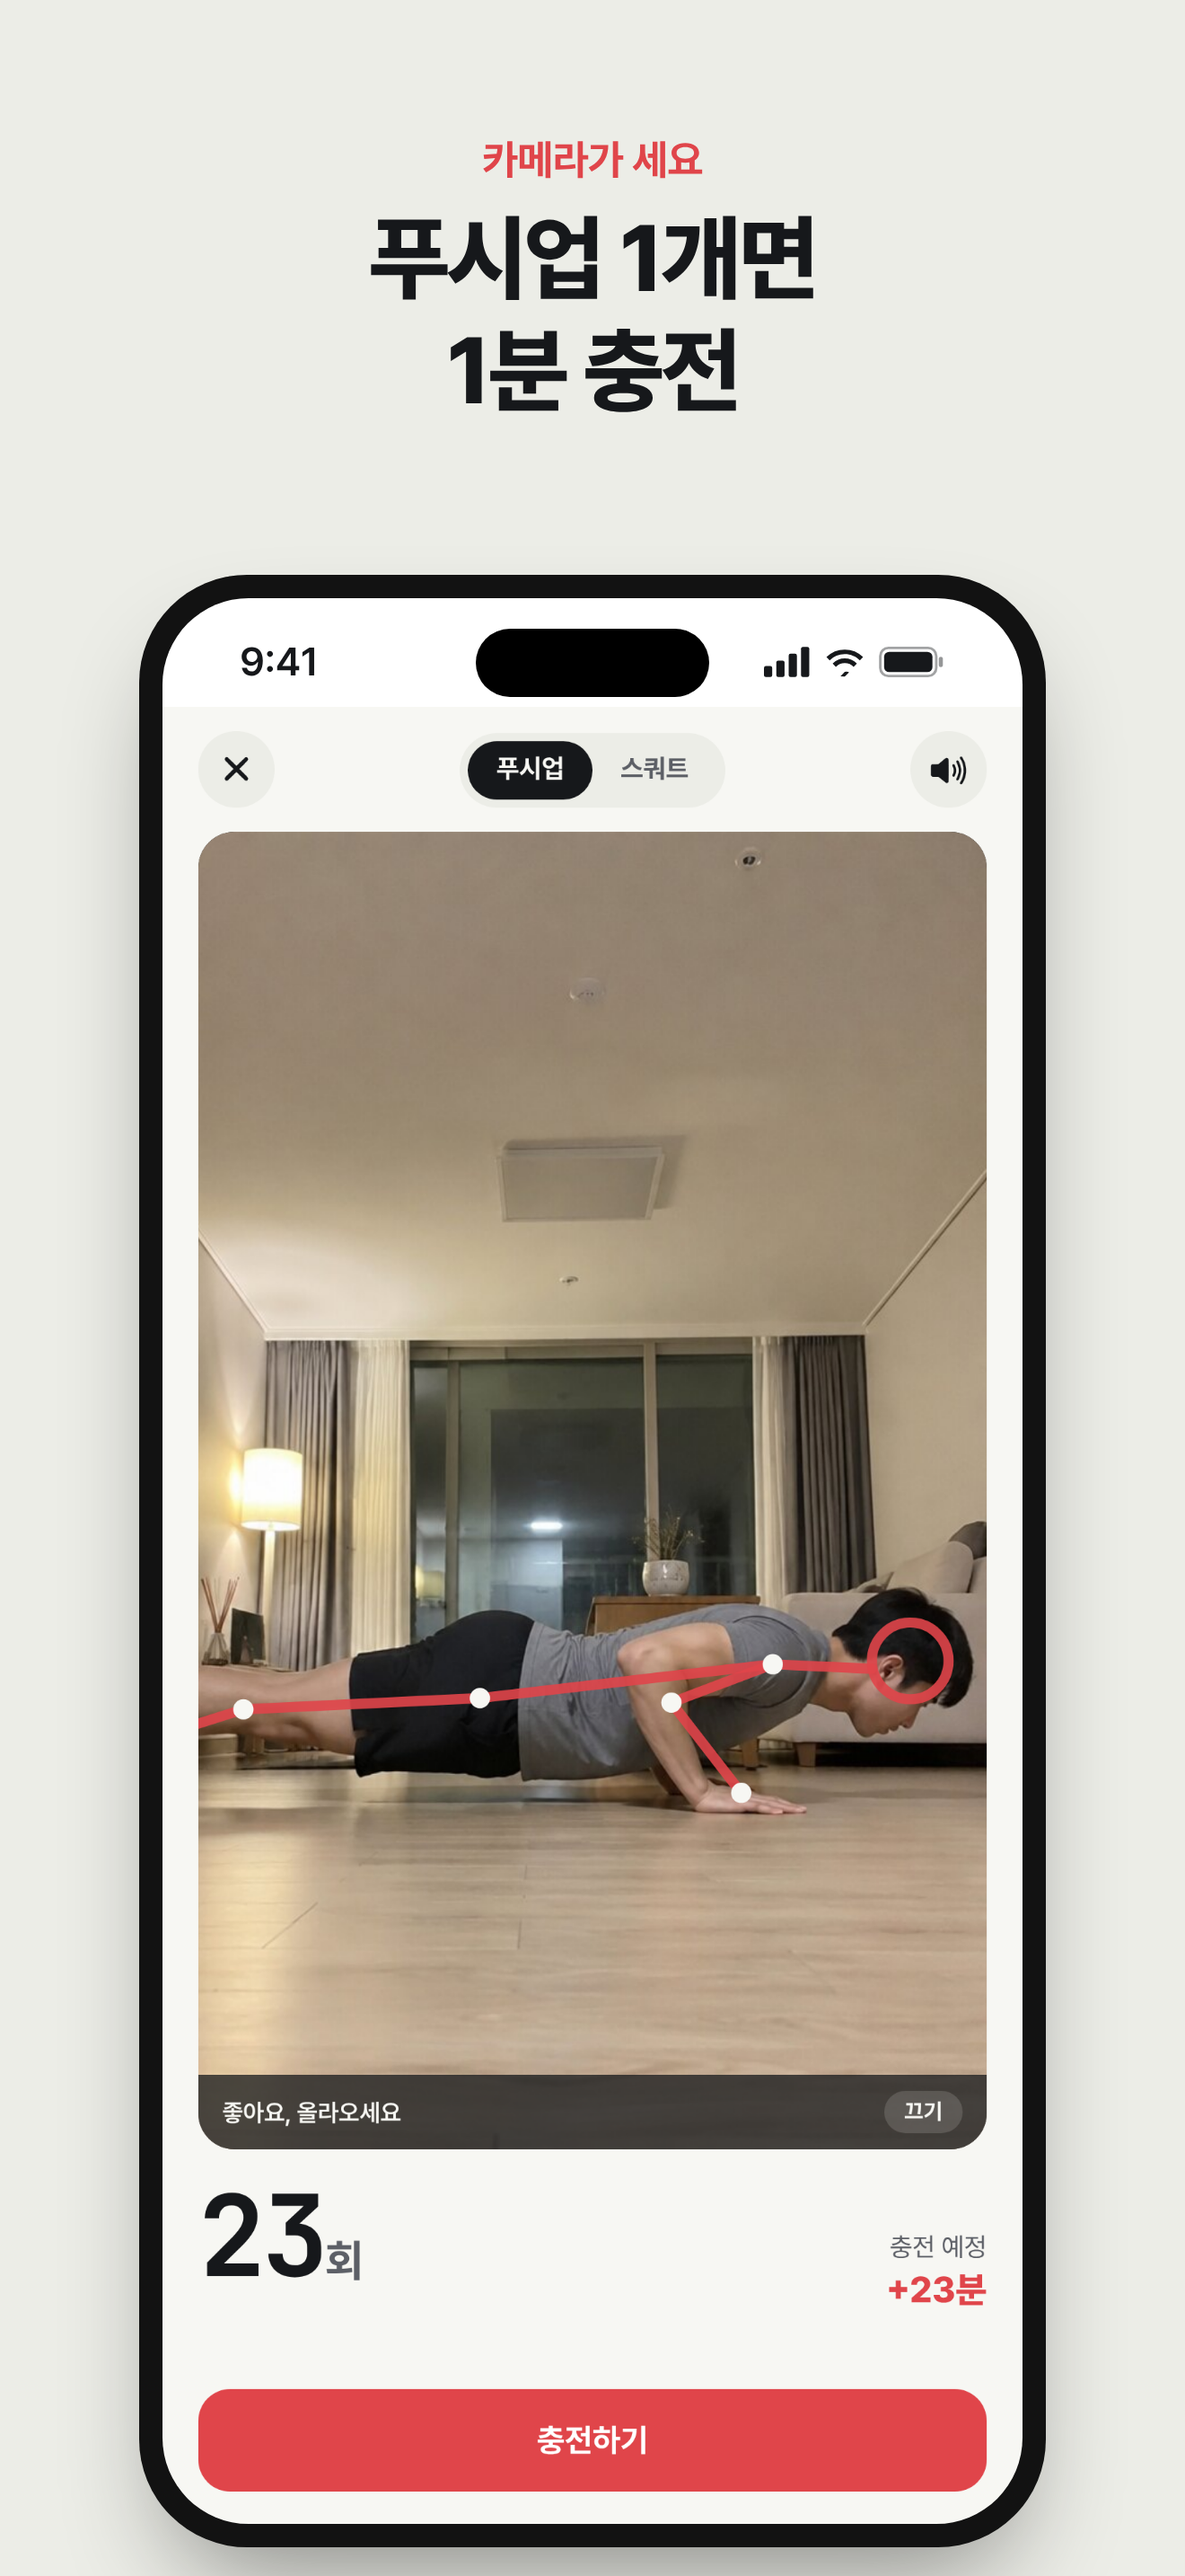
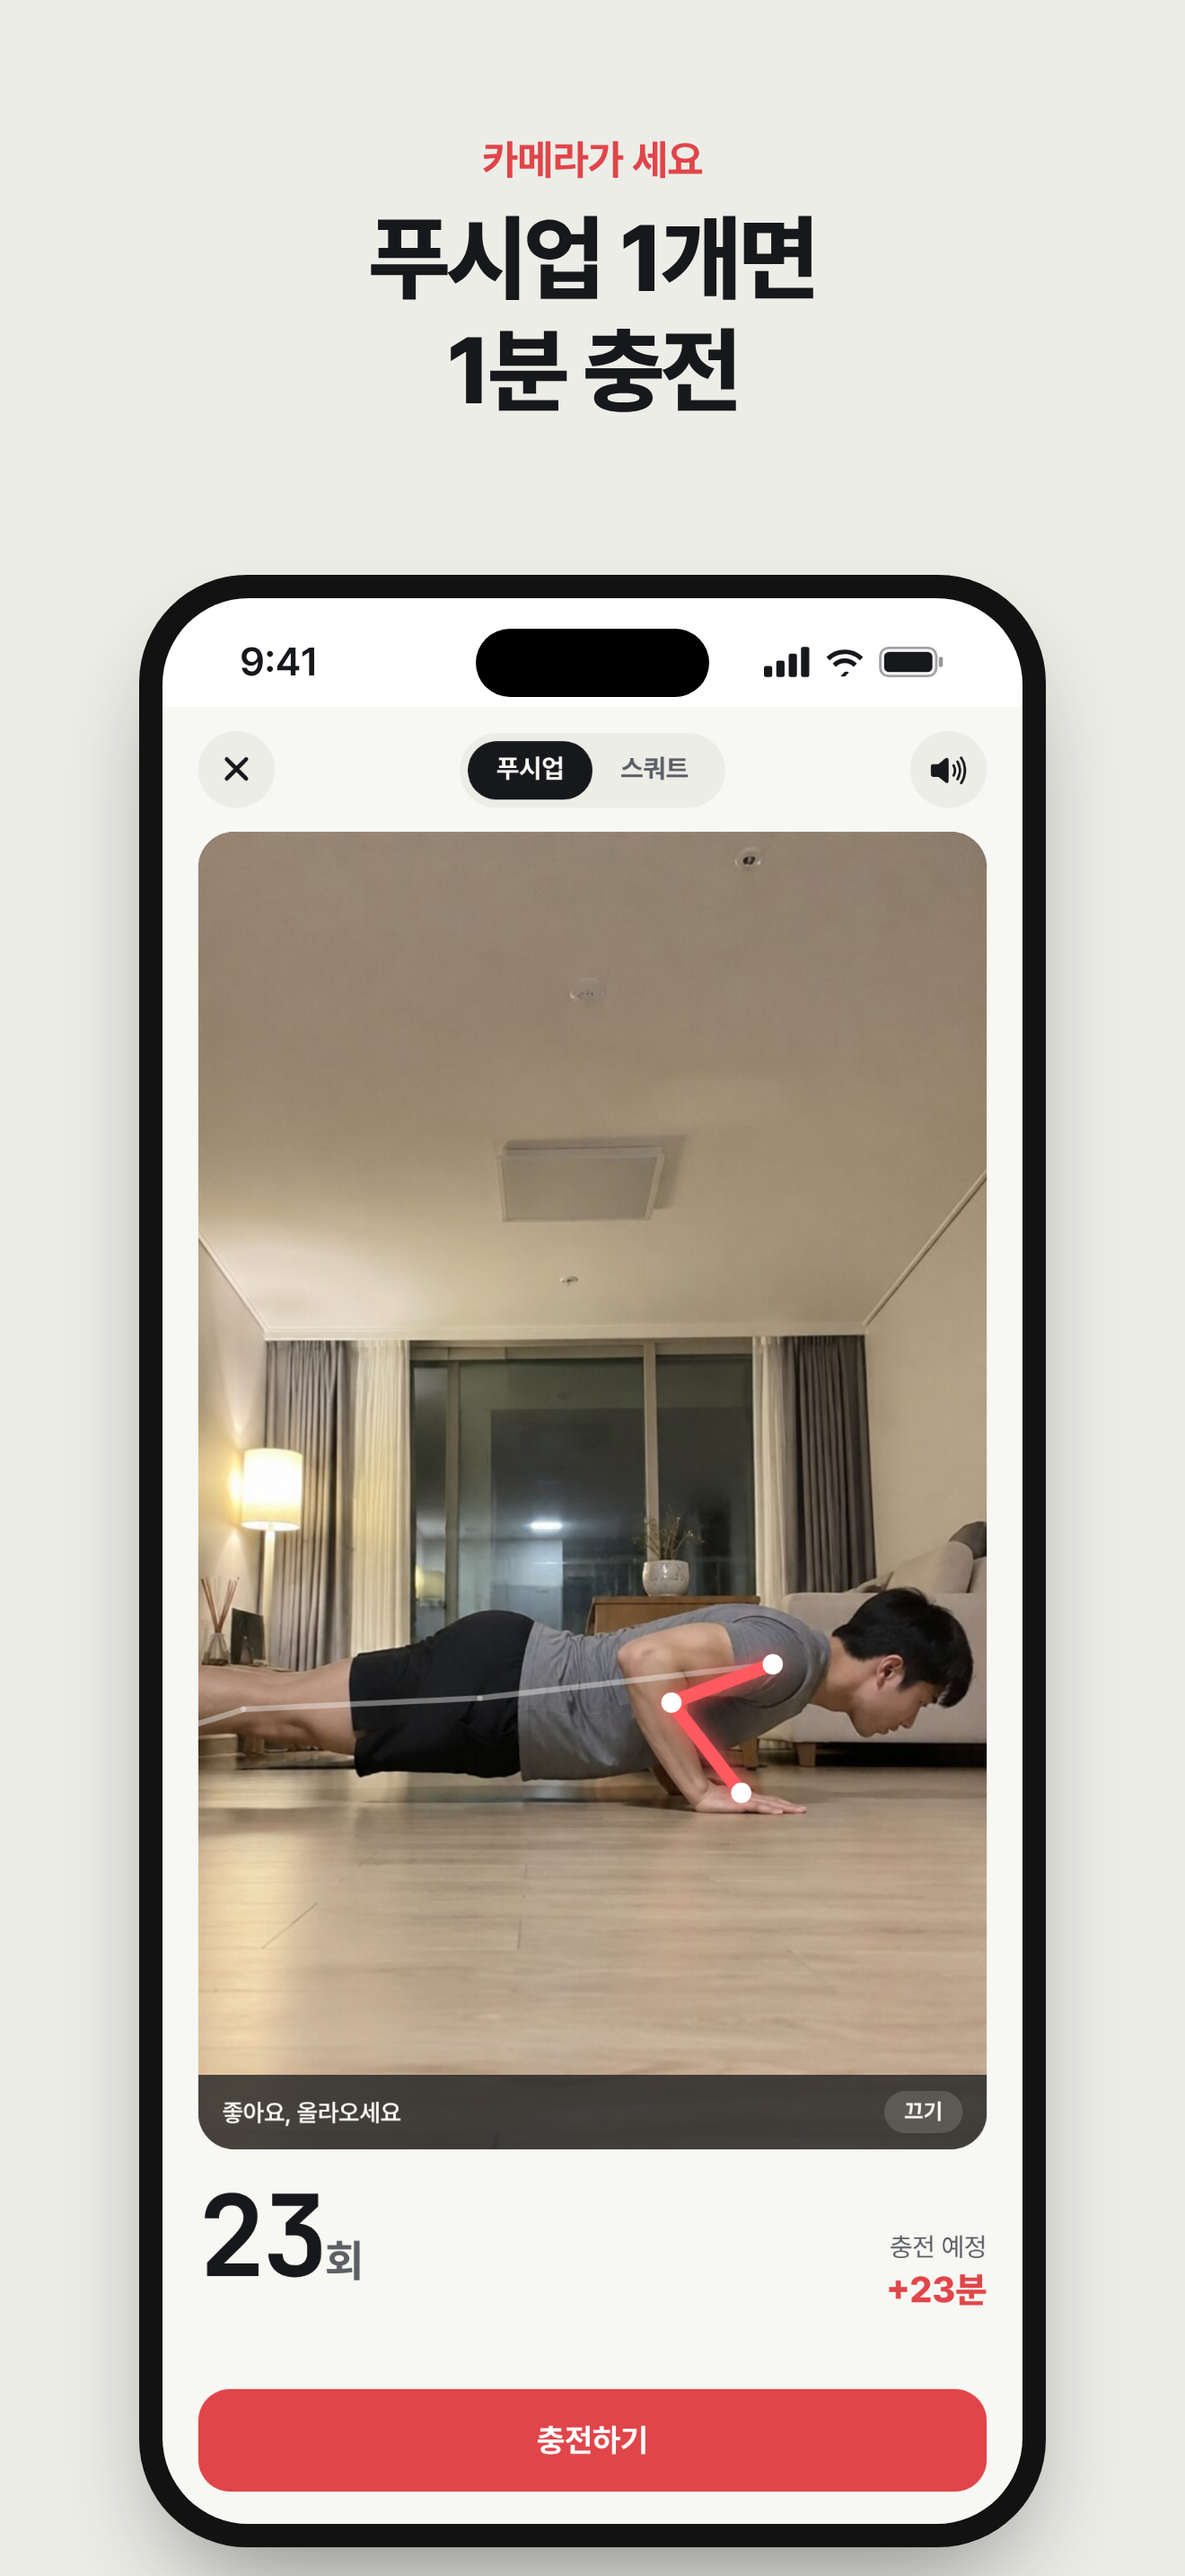
Pose overlay: faint body lines, working limb glows red (arm for push-ups, leg for squats) and flashes on each rep; no stick-figure head
Claude-Session: https://claude.ai/code/session_018S5NCPiZARRimv7hDayTi9

Changed region(s): [[0.5591, 0.6206, 0.8076, 0.7137], [0.1864, 0.6517, 0.528, 0.6827]]

diff --git a/mobile/src/features/pose/PoseCamera.web.tsx b/mobile/src/features/pose/PoseCamera.web.tsx
@@ -12,10 +12,6 @@ const WASM_BASE = `https://cdn.jsdelivr.net/npm/@mediapipe/tasks-vision@${MP_VER
 const MODEL_URL =
   'https://storage.googleapis.com/mediapipe-models/pose_landmarker/pose_landmarker_lite/float16/1/pose_landmarker_lite.task';
 
-const LINKS: [number, number][] = [
-  [11, 12], [11, 13], [13, 15], [12, 14], [14, 16], [11, 23], [12, 24],
-  [23, 24], [23, 25], [25, 27], [24, 26], [26, 28],
-];
 
 type Status = CameraStatus;
 
@@ -34,6 +30,8 @@ export default function PoseCamera({ exercise, onRep, autoStart = false, onStatu
   const stopRef = useRef<(() => void) | null>(null);
   const counterRef = useRef(new RepCounter(exercise));
   const onRepRef = useRef(onRep);
+  const exerciseRef = useRef(exercise);
+  exerciseRef.current = exercise;
   const [status, setStatus] = useState<Status>('idle');
   const [hint, setHint] = useState('');
   const [angle, setAngle] = useState<number | null>(null);
@@ -83,6 +81,7 @@ export default function PoseCamera({ exercise, onRep, autoStart = false, onStatu
       let lastVideoTime = -1;
       let lastUi = 0;
       let lastDetect = 0;
+      let flashUntil = 0;
 
       const loop = () => {
         raf = requestAnimationFrame(loop);
@@ -92,9 +91,12 @@ export default function PoseCamera({ exercise, onRep, autoStart = false, onStatu
         lastDetect = now;
         lastVideoTime = video.currentTime;
         const lm = landmarker.detectForVideo(video, now).landmarks[0];
-        if (ctx) draw(ctx, canvas, video, lm);
         const u = counterRef.current.update(lm, now);
-        if (u.repCompleted) onRepRef.current();
+        if (u.repCompleted) {
+          onRepRef.current();
+          flashUntil = now + 260;
+        }
+        if (ctx) draw(ctx, canvas, video, lm, exerciseRef.current, now < flashUntil);
         if (now - lastUi > 150) {
           lastUi = now;
           setAngle(u.angle === null ? null : Math.round(u.angle));
@@ -165,33 +167,62 @@ export default function PoseCamera({ exercise, onRep, autoStart = false, onStatu
   );
 }
 
-/** Minimal stick figure: just enough to see that a person is detected. */
-function draw(ctx: CanvasRenderingContext2D, canvas: HTMLCanvasElement, video: HTMLVideoElement, lm?: Landmark[]) {
+const BODY: [number, number][] = [
+  [11, 12], [11, 23], [12, 24], [23, 24], [23, 25], [25, 27], [24, 26], [26, 28], [11, 13], [13, 15], [12, 14], [14, 16],
+];
+const LIMB = { pushup: { left: [11, 13, 15], right: [12, 14, 16] }, squat: { left: [23, 25, 27], right: [24, 26, 28] } };
+
+/** Body in faint white, the working limb in glowing red; brighter for a moment after a rep. */
+function draw(
+  ctx: CanvasRenderingContext2D,
+  canvas: HTMLCanvasElement,
+  video: HTMLVideoElement,
+  lm: Landmark[] | undefined,
+  exercise: 'pushup' | 'squat',
+  flash: boolean,
+) {
   if (canvas.width !== video.videoWidth) canvas.width = video.videoWidth;
   if (canvas.height !== video.videoHeight) canvas.height = video.videoHeight;
   ctx.clearRect(0, 0, canvas.width, canvas.height);
   if (!lm) return;
   const W = canvas.width;
   const H = canvas.height;
-  const ok = (i: number) => (lm[i]?.visibility ?? 0) >= 0.4;
+  const u = Math.max(W, H) / 640;
+  const vis = (i: number) => lm[i]?.visibility ?? 0;
+  const ok = (i: number) => vis(i) >= 0.4;
   const P = (i: number): [number, number] => [lm[i].x * W, lm[i].y * H];
-  const line = (p: [number, number], q: [number, number]) => {
-    ctx.beginPath();
-    ctx.moveTo(p[0], p[1]);
-    ctx.lineTo(q[0], q[1]);
-    ctx.stroke();
-  };
-  ctx.lineWidth = 4;
+  const score = (ids: number[]) => ids.reduce((n, i) => n + vis(i), 0);
+  const sides = LIMB[exercise];
+  const limb = score(sides.left) >= score(sides.right) ? sides.left : sides.right;
   ctx.lineCap = 'round';
   ctx.lineJoin = 'round';
-  ctx.strokeStyle = 'rgba(224,69,74,0.9)';
-  for (const [a, b] of LINKS) if (ok(a) && ok(b)) line(P(a), P(b));
-  if (ok(0) && ok(11) && ok(12)) {
-    const r = Math.hypot((lm[11].x - lm[12].x) * W, (lm[11].y - lm[12].y) * H) * 0.3;
+  ctx.shadowBlur = 0;
+  ctx.strokeStyle = 'rgba(255,255,255,0.35)';
+  ctx.lineWidth = 3 * u;
+  for (const [a, b] of BODY) {
+    if ((limb.includes(a) && limb.includes(b)) || !ok(a) || !ok(b)) continue;
     ctx.beginPath();
-    ctx.arc(lm[0].x * W, lm[0].y * H, Math.max(10, r), 0, Math.PI * 2);
+    ctx.moveTo(...P(a));
+    ctx.lineTo(...P(b));
     ctx.stroke();
-    line([((lm[11].x + lm[12].x) / 2) * W, ((lm[11].y + lm[12].y) / 2) * H], P(0));
+  }
+  if (!limb.every(ok)) return;
+  ctx.shadowColor = 'rgba(224,69,74,0.95)';
+  ctx.shadowBlur = (flash ? 34 : 18) * u;
+  ctx.strokeStyle = flash ? '#FF8A8D' : '#FF5A5F';
+  ctx.lineWidth = (flash ? 9 : 7) * u;
+  ctx.beginPath();
+  ctx.moveTo(...P(limb[0]));
+  ctx.lineTo(...P(limb[1]));
+  ctx.lineTo(...P(limb[2]));
+  ctx.stroke();
+  ctx.shadowBlur = 0;
+  ctx.fillStyle = '#fff';
+  for (const i of limb) {
+    const [x, y] = P(i);
+    ctx.beginPath();
+    ctx.arc(x, y, 5 * u, 0, Math.PI * 2);
+    ctx.fill();
   }
 }
 

diff --git a/mobile/src/features/pose/pose-html.ts b/mobile/src/features/pose/pose-html.ts
@@ -5,7 +5,7 @@
  *
  * Protocol (postMessage JSON):
  *   page -> app: {t:'ready'} | {t:'status', s} | {t:'error', name, msg} | {t:'lm', ts, lm: [[x,y,vis]x33] | null}
- *   app -> page: window.hagoStart(), window.hagoStop()
+ *   app -> page: window.hagoStart(), window.hagoStop(), window.hagoSetExercise(e), window.hagoFlash()
  */
 const MP = 'https://cdn.jsdelivr.net/npm/@mediapipe/tasks-vision@0.10.14';
 const MODEL =
@@ -26,7 +26,6 @@ export const POSE_HTML = `<!doctype html>
 <canvas id="c"></canvas>
 <script type="module">
   const post = (m) => window.ReactNativeWebView && window.ReactNativeWebView.postMessage(JSON.stringify(m));
-  const LINKS = [[11,12],[11,13],[13,15],[12,14],[14,16],[11,23],[12,24],[23,24],[23,25],[25,27],[24,26],[26,28]];
   const v = document.getElementById('v');
   const c = document.getElementById('c');
   const ctx = c.getContext('2d');
@@ -44,24 +43,40 @@ export const POSE_HTML = `<!doctype html>
     return landmarker;
   }
 
-  // Minimal stick figure: just enough to see that a person is detected.
+  // Body in faint white, the working limb (arm for push-ups, leg for squats) in glowing red.
+  // A counted rep makes the limb flash brighter for a moment.
+  let exercise = 'pushup', flashUntil = 0;
+  const BODY = [[11,12],[11,23],[12,24],[23,24],[23,25],[25,27],[24,26],[26,28],[11,13],[13,15],[12,14],[14,16]];
+  const LIMB = { pushup: { left: [11,13,15], right: [12,14,16] }, squat: { left: [23,25,27], right: [24,26,28] } };
   function draw(lm) {
     if (c.width !== v.videoWidth) c.width = v.videoWidth;
     if (c.height !== v.videoHeight) c.height = v.videoHeight;
     ctx.clearRect(0, 0, c.width, c.height);
     if (!lm) return;
-    const ok = (i) => ((lm[i] && lm[i].visibility) || 0) >= 0.4;
+    const vis = (i) => (lm[i] && lm[i].visibility) || 0;
+    const ok = (i) => vis(i) >= 0.4;
     const P = (i) => [lm[i].x * c.width, lm[i].y * c.height];
-    const mid = (a, b) => [(lm[a].x + lm[b].x) / 2 * c.width, (lm[a].y + lm[b].y) / 2 * c.height];
-    const line = (p, q) => { ctx.beginPath(); ctx.moveTo(p[0], p[1]); ctx.lineTo(q[0], q[1]); ctx.stroke(); };
-    ctx.lineWidth = 4; ctx.lineCap = 'round'; ctx.lineJoin = 'round'; ctx.strokeStyle = 'rgba(224,69,74,0.9)';
-    for (const [a, b] of LINKS) if (ok(a) && ok(b)) line(P(a), P(b));
-    if (ok(0) && ok(11) && ok(12)) {
-      const r = Math.hypot((lm[11].x - lm[12].x) * c.width, (lm[11].y - lm[12].y) * c.height) * 0.3;
-      ctx.beginPath(); ctx.arc(lm[0].x * c.width, lm[0].y * c.height, Math.max(10, r), 0, Math.PI * 2); ctx.stroke();
-      line(mid(11, 12), P(0));
+    const u = Math.max(c.width, c.height) / 640;
+    const sideScore = (ids) => ids.reduce((n, i) => n + vis(i), 0);
+    const sides = LIMB[exercise] || LIMB.pushup;
+    const limb = sideScore(sides.left) >= sideScore(sides.right) ? sides.left : sides.right;
+    const inLimb = (a, b) => limb.includes(a) && limb.includes(b);
+    ctx.lineCap = 'round'; ctx.lineJoin = 'round';
+    ctx.shadowBlur = 0; ctx.strokeStyle = 'rgba(255,255,255,0.35)'; ctx.lineWidth = 3 * u;
+    for (const [a, b] of BODY) {
+      if (inLimb(a, b) || !ok(a) || !ok(b)) continue;
+      ctx.beginPath(); ctx.moveTo(...P(a)); ctx.lineTo(...P(b)); ctx.stroke();
     }
+    if (!limb.every(ok)) return;
+    const flash = performance.now() < flashUntil;
+    ctx.shadowColor = 'rgba(224,69,74,0.95)'; ctx.shadowBlur = (flash ? 34 : 18) * u;
+    ctx.strokeStyle = flash ? '#FF8A8D' : '#FF5A5F'; ctx.lineWidth = (flash ? 9 : 7) * u;
+    ctx.beginPath(); ctx.moveTo(...P(limb[0])); ctx.lineTo(...P(limb[1])); ctx.lineTo(...P(limb[2])); ctx.stroke();
+    ctx.shadowBlur = 0; ctx.fillStyle = '#fff';
+    for (const i of limb) { const [x, y] = P(i); ctx.beginPath(); ctx.arc(x, y, 5 * u, 0, Math.PI * 2); ctx.fill(); }
   }
+  window.hagoSetExercise = (e) => { exercise = e; };
+  window.hagoFlash = () => { flashUntil = performance.now() + 260; };
 
   function loop() {
     if (!running) return;

diff --git a/mobile/src/features/pose/PoseCamera.tsx b/mobile/src/features/pose/PoseCamera.tsx
@@ -31,6 +31,8 @@ export default function PoseCamera({ exercise, onRep, autoStart = false, onStatu
   const webRef = useRef<WebView>(null);
   const counterRef = useRef(new RepCounter(exercise));
   const onRepRef = useRef(onRep);
+  const exerciseRef = useRef(exercise);
+  exerciseRef.current = exercise;
   const readyRef = useRef(false);
   const pendingStartRef = useRef(false);
   const lastUiRef = useRef(0);
@@ -43,6 +45,8 @@ export default function PoseCamera({ exercise, onRep, autoStart = false, onStatu
   }, [onRep]);
   useEffect(() => {
     counterRef.current.setExercise(exercise);
+    inject(`window.hagoSetExercise && window.hagoSetExercise('${exercise}')`);
+    // eslint-disable-next-line react-hooks/exhaustive-deps
   }, [exercise]);
 
   const inject = (js: string) => webRef.current?.injectJavaScript(`${js};true;`);
@@ -92,6 +96,7 @@ export default function PoseCamera({ exercise, onRep, autoStart = false, onStatu
     switch (msg.t) {
       case 'ready':
         readyRef.current = true;
+        webRef.current?.injectJavaScript(`window.hagoSetExercise('${exerciseRef.current}');true;`);
         if (pendingStartRef.current) {
           pendingStartRef.current = false;
           webRef.current?.injectJavaScript('window.hagoStart();true;');
@@ -114,7 +119,10 @@ export default function PoseCamera({ exercise, onRep, autoStart = false, onStatu
       case 'lm': {
         const lm: Landmark[] | undefined = msg.lm?.map(([x, y, visibility]) => ({ x, y, visibility }));
         const u = counterRef.current.update(lm, msg.ts);
-        if (u.repCompleted) onRepRef.current();
+        if (u.repCompleted) {
+          onRepRef.current();
+          webRef.current?.injectJavaScript('window.hagoFlash && window.hagoFlash();true;');
+        }
         if (msg.ts - lastUiRef.current > 150) {
           lastUiRef.current = msg.ts;
           setAngle(u.angle === null ? null : Math.round(u.angle));
